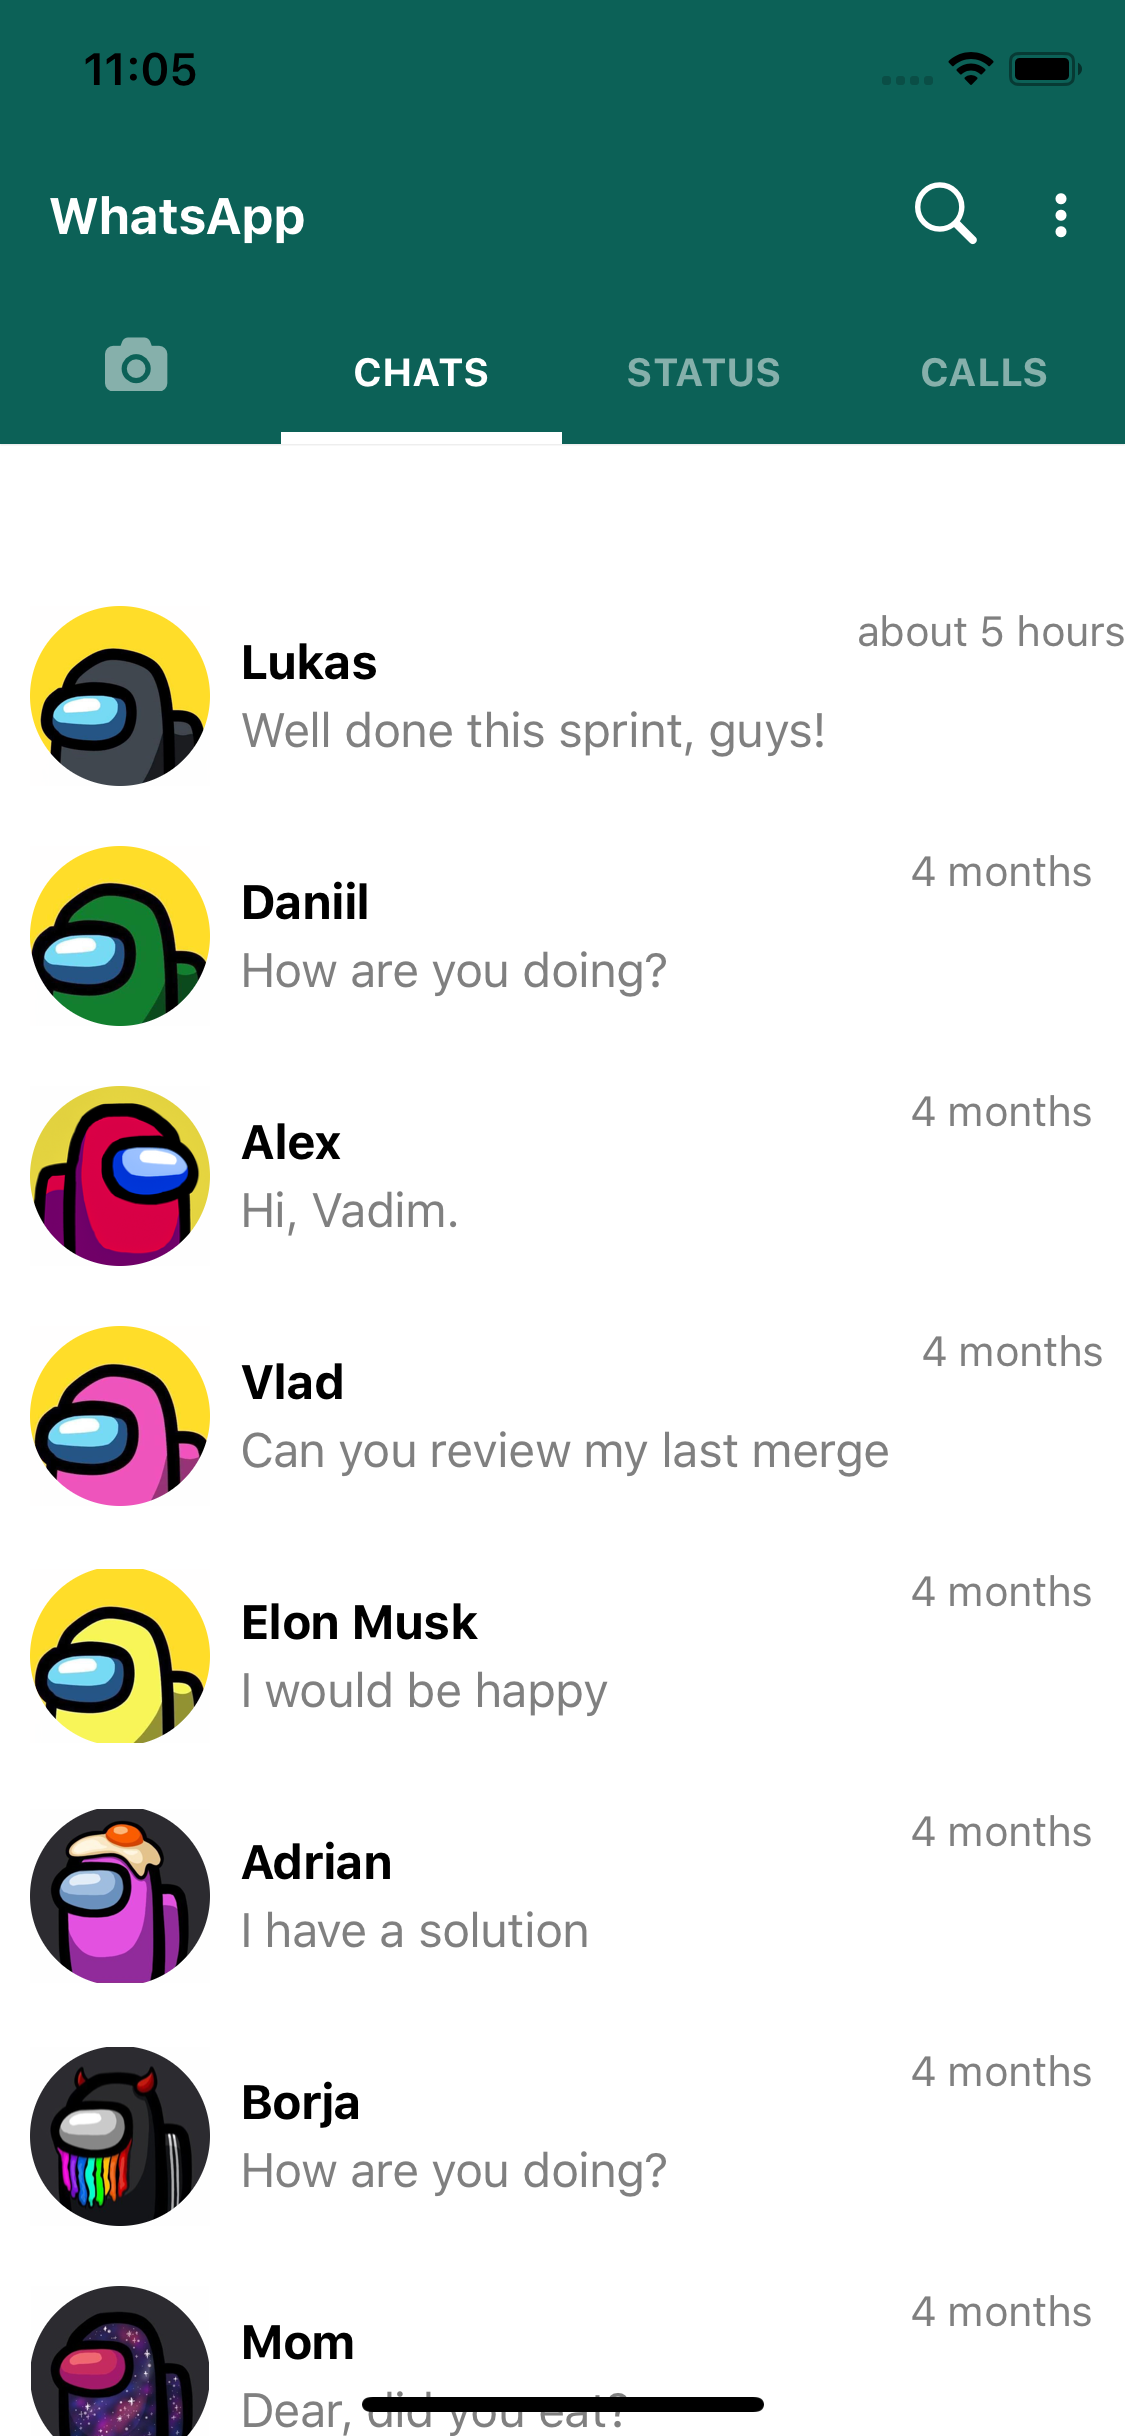
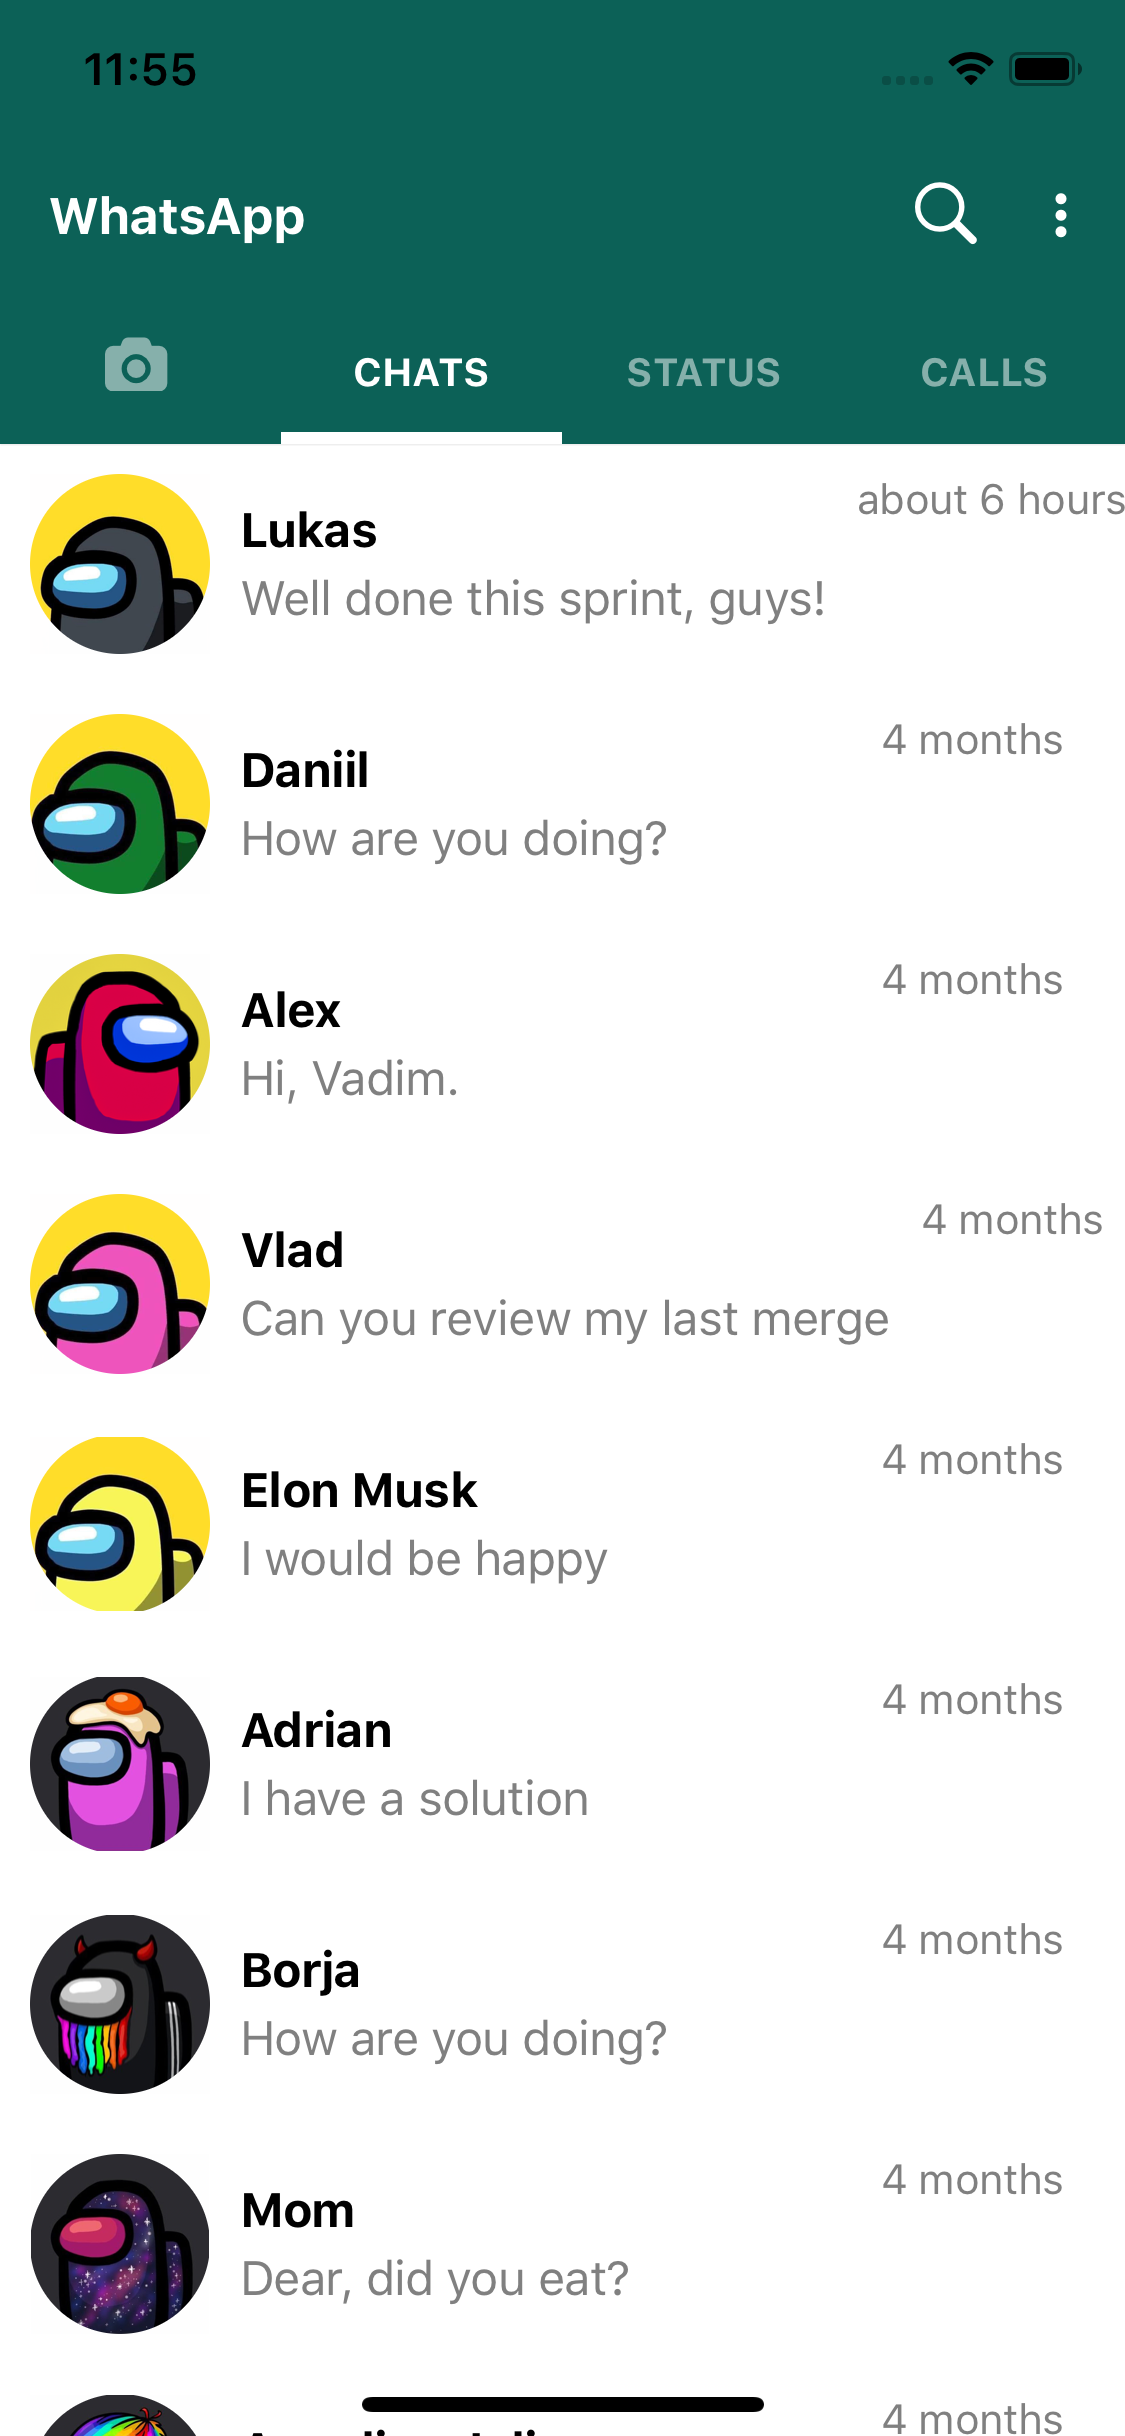
bugs fix

diff --git a/navigation/MainTabNavigator.tsx b/navigation/MainTabNavigator.tsx
@@ -1,4 +1,4 @@
-import { Ionicons, Fontisto } from '@expo/vector-icons';
+import { Fontisto } from '@expo/vector-icons';
 import { createMaterialTopTabNavigator } from '@react-navigation/material-top-tabs';
 import { createStackNavigator } from '@react-navigation/stack';
 import * as React from 'react';
@@ -7,7 +7,6 @@ import Colors from '../constants/Colors';
 import useColorScheme from '../hooks/useColorScheme';
 import CallScreen from '../screens/CallScreen';
 import CameraScreen from '../screens/CameraScreen';
-import ChatDetailScreen from '../screens/ChatDetailScreen';
 import ChatScreen from '../screens/ChatScreen';
 import StatusScreen from '../screens/StatusScreen';
 import { tabScreenOptions } from '../screens/utils';
@@ -55,9 +54,7 @@ export default function TopTabNavigator() {
 
 // You can explore the built-in icon families and icons on the web at:
 // https://icons.expo.fyi/
-function TabBarIcon(props: { name: React.ComponentProps<typeof Ionicons>['name']; color: string }) {
-  return <Ionicons size={30} style={{ marginBottom: -3 }} {...props} />;
-}
+
 
 // Each tab has its own navigation stack, you can read more about this pattern here:
 // https://reactnavigation.org/docs/tab-based-navigation#a-stack-navigator-for-each-tab

diff --git a/components/ChatListItem/index.tsx b/components/ChatListItem/index.tsx
@@ -1,7 +1,7 @@
 import { useNavigation } from '@react-navigation/native'
 import { formatDistance, subDays } from 'date-fns'
 import React from 'react'
-import { Text, Pressable } from 'react-native'
+import { Text, Pressable, View, } from 'react-native'
 import { ChatRoomType } from '../../types'
 import AvatarNameTextContainer from '../AvatarNameTextContainer'
 import styles from './styles'
@@ -22,7 +22,9 @@ const ChatListItem = (props: propsType) => {
   return (
     <Pressable onPress={handleItemPress} style={styles.container}>
       <AvatarNameTextContainer imageUrl={user.imageUri} name={user.name} text={chatRoom.lastMessage.content} />
-      <Text style={styles.time}>{formatDistance(subDays(new Date(chatRoom.lastMessage.createdAt), now.getMonth()), now)}</Text>
+      <View style={{}}>
+        <Text style={styles.time}>{formatDistance(subDays(new Date(chatRoom.lastMessage.createdAt), 0), now)}</Text>
+      </View>
     </Pressable>
   )
 }

diff --git a/navigation/index.tsx b/navigation/index.tsx
@@ -5,7 +5,6 @@ import { ColorSchemeName, View, StyleSheet } from 'react-native';
 
 import { RootStackParamList } from '../types';
 import MainTabNavigator from './MainTabNavigator';
-import LinkingConfiguration from './LinkingConfiguration';
 import Colors from '../constants/Colors'
 import { Octicons, MaterialCommunityIcons, FontAwesome5 } from '@expo/vector-icons'
 import ChatDetailScreen from '../screens/ChatDetailScreen';
@@ -17,7 +16,6 @@ import { ChatRoomType } from '../types'
 export default function Navigation({ colorScheme }: { colorScheme: ColorSchemeName }) {
   return (
     <NavigationContainer
-      linking={LinkingConfiguration}
       theme={colorScheme === 'dark' ? DarkTheme : DefaultTheme}>
       <RootNavigator />
     </NavigationContainer>
@@ -89,8 +87,7 @@ function RootNavigator() {
                 />
               </View>
             ),
-            headerRightContainerStyle: {
-            },
+
 
           }
         }}

diff --git a/screens/utils.ts b/screens/utils.ts
@@ -1,6 +1,6 @@
 export const tabScreenOptions = {
-  headerTitle: () => null,
-  headerStyle: { elevation: 0, shadowOpacity: 0 },
+  headerTitle: "",
+  headerStyle: { elevation: 0, shadowOpacity: 0, height: 0 },
 };
 
 export type ParamsType = { params: { id: string }; key: string; name: string };

diff --git a/components/ChatListItem/styles.ts b/components/ChatListItem/styles.ts
@@ -10,6 +10,7 @@ const styles = StyleSheet.create({
   time: {
     fontSize: 14,
     color: "grey",
+    marginRight: 10,
   },
 });
 
